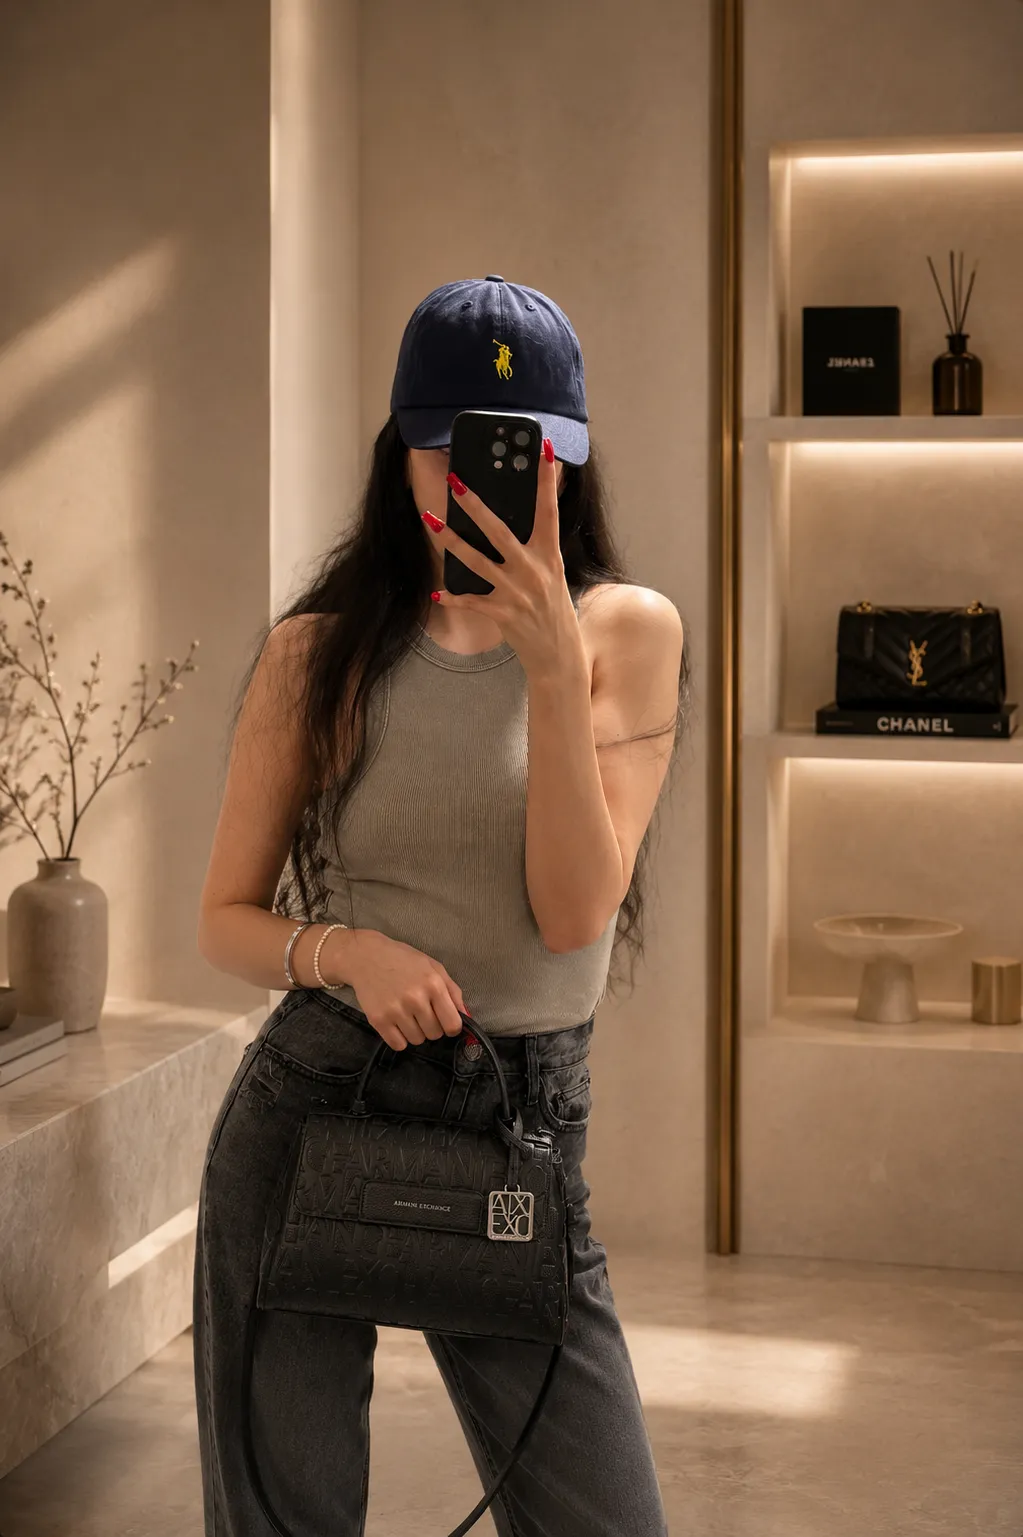
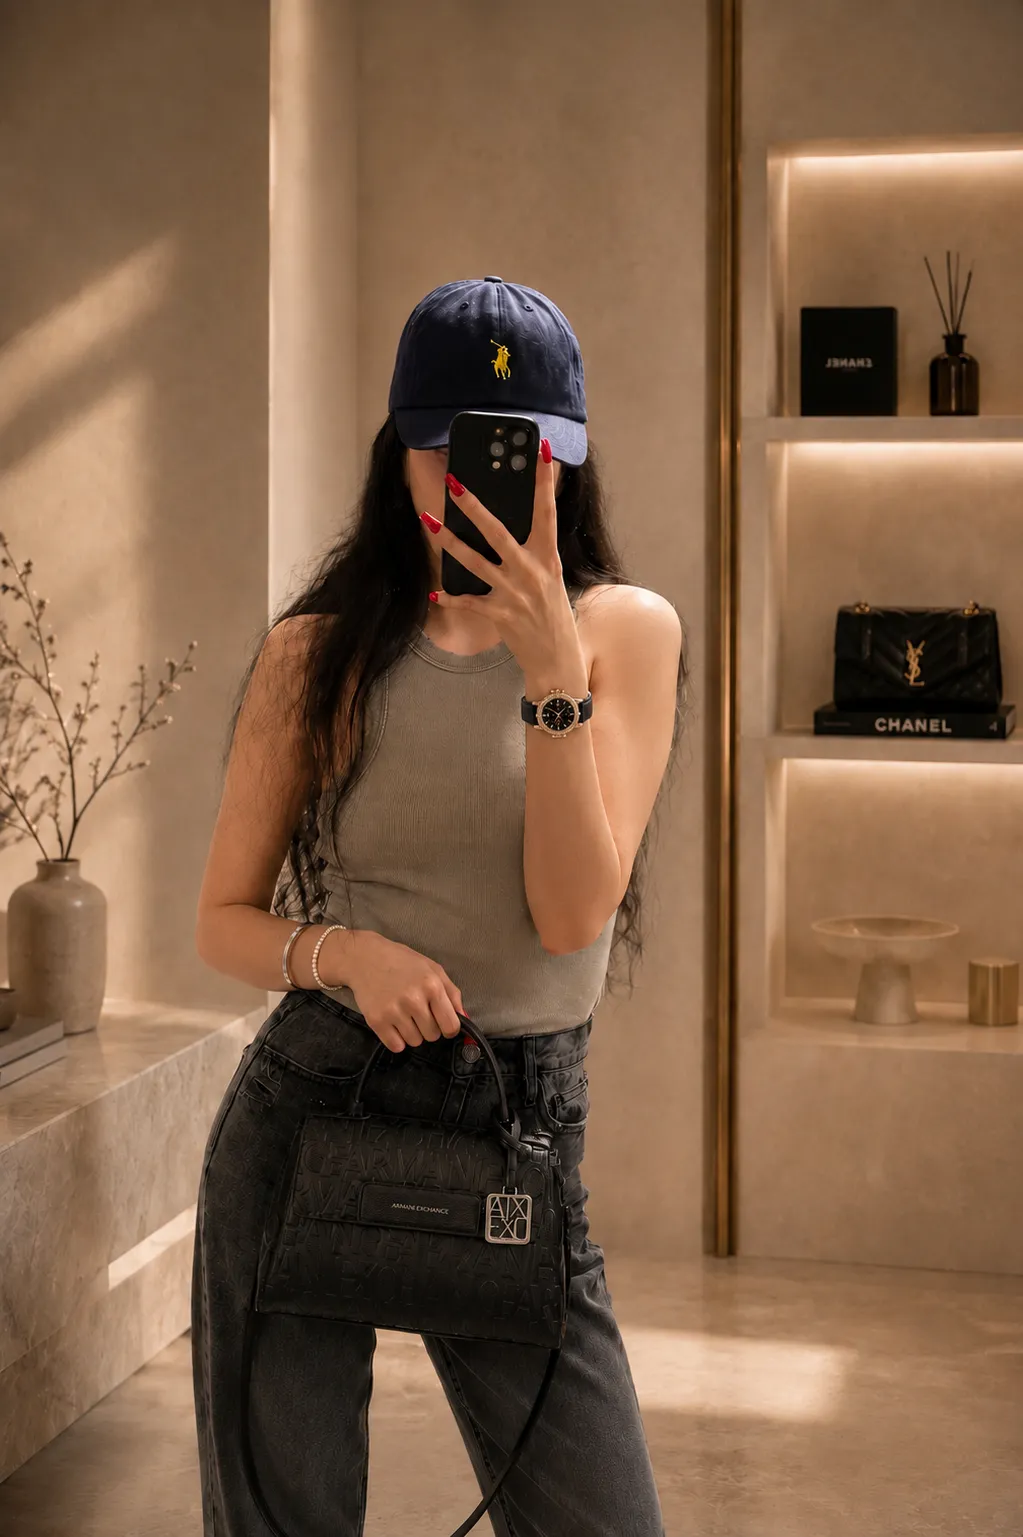
The Look: watch scene + Swarovski Era Journey Chrono marker with product shot
- Swap scene to the version wearing the timepiece; recalibrated all markers
- Fourth marker: the watch — zoom centres the dial, card shows the official
  product image beside real spec copy
- Raw uploads moved out of repo root into images/

Claude-Session: https://claude.ai/code/session_01CEFTYk1h3BnHq8CD9kzt6z

diff --git a/script.js b/script.js
@@ -292,7 +292,8 @@
     const card = document.getElementById("lookCard");
     const closeBtn = document.getElementById("lookClose");
     const K = document.getElementById("lcKicker"), N = document.getElementById("lcName"),
-          T = document.getElementById("lcNote"), L = document.getElementById("lcLink");
+          T = document.getElementById("lcNote"), L = document.getElementById("lcLink"),
+          IM = document.getElementById("lcImg");
     const REST = {
       kicker: "The Pieces", name: "Three quiet essentials",
       note: "A cap, a timepiece, and the crown piece itself — worn together in the salon. Touch a marker on the scene to step closer to each one."
@@ -303,8 +304,9 @@
         note: "Washed navy cotton, the pony picked out in yellow — the quiet sport of old money. Worn low, it closes the look without asking for attention."
       },
       watch: {
-        kicker: "The Timepiece", name: "Worn Close — Midnight Dial", zoom: 3.1,
-        note: "A dark dial on a matte strap, sitting close on the wrist. Time, kept privately — details on request from your advisor."
+        kicker: "The Timepiece", name: "Swarovski — Era Journey Chrono", zoom: 3.2,
+        note: "Rose-gold case set with crystals around a black chronograph dial, on midnight leather. Swiss made — quiet sparkle, kept close.",
+        img: "images/watch-era.webp"
       },
       bracelets: {
         kicker: "The Wrist", name: "Pearls & Fine Gold", zoom: 3.1,
@@ -321,6 +323,8 @@
       card.classList.add("fade");
       setTimeout(() => {
         K.textContent = p.kicker; N.textContent = p.name; T.textContent = p.note;
+        if (withLink && p.img) { IM.src = p.img; IM.alt = p.name; IM.classList.remove("hidden"); }
+        else IM.classList.add("hidden");
         if (withLink && p.link) { L.href = p.link; L.classList.remove("hidden"); }
         else L.classList.add("hidden");
         card.classList.remove("fade");

diff --git a/index.html b/index.html
@@ -117,9 +117,10 @@
         <div class="look-photo" id="lookPhoto">
           <img src="images/look.webp" alt="Styled in the salon — cap, timepiece and the Armani Exchange top-handle" loading="lazy" />
           <span class="look-shade" aria-hidden="true"></span>
-          <button class="spot" data-piece="cap" style="--x:48%; --y:21%" aria-label="View the cap"><i></i></button>
-          <button class="spot" data-piece="bracelets" style="--x:33%; --y:57.5%" aria-label="View the bracelets"><i></i></button>
-          <button class="spot" data-piece="bag" style="--x:42%; --y:74.5%" aria-label="View the bag"><i></i></button>
+          <button class="spot" data-piece="cap" style="--x:47.5%; --y:21%" aria-label="View the cap"><i></i></button>
+          <button class="spot" data-piece="watch" style="--x:53.5%; --y:43.5%" aria-label="View the timepiece"><i></i></button>
+          <button class="spot" data-piece="bracelets" style="--x:30%; --y:57.5%" aria-label="View the bracelets"><i></i></button>
+          <button class="spot" data-piece="bag" style="--x:40%; --y:73%" aria-label="View the bag"><i></i></button>
         </div>
         <button class="look-close" id="lookClose" aria-label="Step back">×</button>
       </div>
@@ -127,6 +128,7 @@
         <span class="lc-kicker" id="lcKicker">The Pieces</span>
         <h3 class="lc-name" id="lcName">Three quiet essentials</h3>
         <p class="lc-note" id="lcNote">A cap, a timepiece, and the crown piece itself — worn together in the salon. Touch a marker on the scene to step closer to each one.</p>
+        <img class="lc-img hidden" id="lcImg" src="" alt="" loading="lazy" />
         <a class="lc-link hidden" id="lcLink" href="#">Discover the Piece</a>
       </aside>
     </div>

diff --git a/styles.css b/styles.css
@@ -419,6 +419,9 @@ em { font-style: italic; }
 .lc-kicker { font-size: 10px; letter-spacing: .32em; text-transform: uppercase; color: var(--gold); }
 .lc-name { font-family: var(--serif); font-style: italic; font-weight: 500; font-size: 27px; line-height: 1.3; color: var(--ink); margin-top: 12px; }
 .lc-note { margin-top: 14px; font-size: 14.5px; line-height: 1.95; color: var(--ink-2); }
+.lc-img { display: block; width: 132px; margin-top: 22px; padding: 10px; background: #fff;
+  box-shadow: 0 14px 30px rgba(43,34,38,.14), 0 3px 8px rgba(43,34,38,.07); }
+.lc-img.hidden { display: none; }
 .lc-link { display: inline-flex; align-items: center; gap: 10px; margin-top: 22px; font-size: 10.5px; letter-spacing: .26em; text-transform: uppercase; color: var(--gold-2); }
 .lc-link::after { content: "\27F6"; font-size: 14px; transition: transform .35s var(--ease); }
 .lc-link:hover::after { transform: translateX(6px); }
@@ -426,6 +429,7 @@ em { font-style: italic; }
 @media (max-width: 880px) {
   .look-wrap { flex-direction: column; gap: 34px; }
   .look-card { width: min(430px, 88vw); text-align: center; }
+  .lc-img { margin-inline: auto; }
   .look { padding-bottom: 96px; }
 }
 
